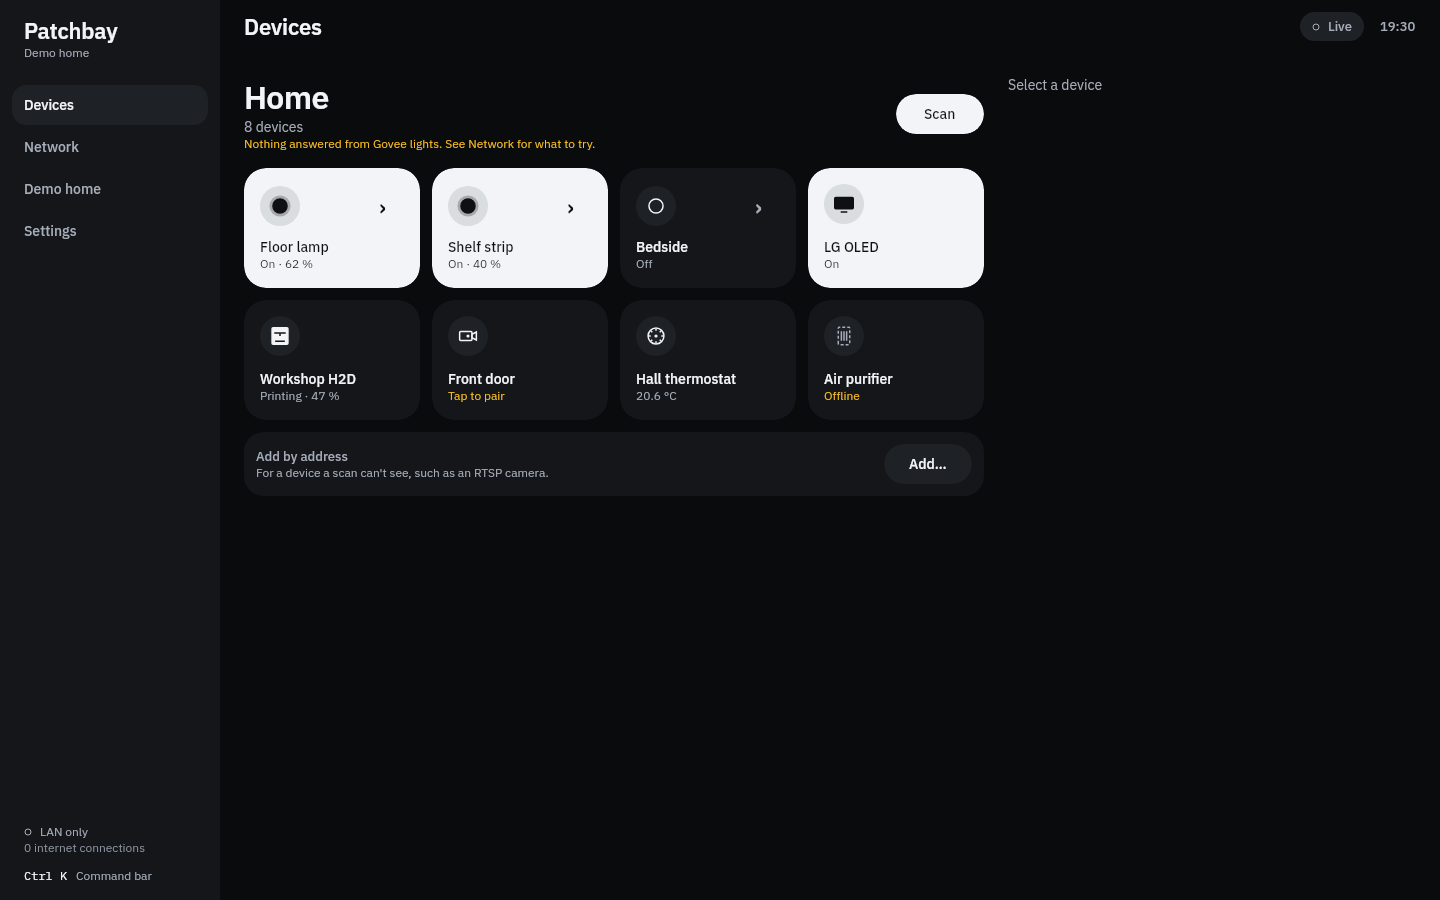
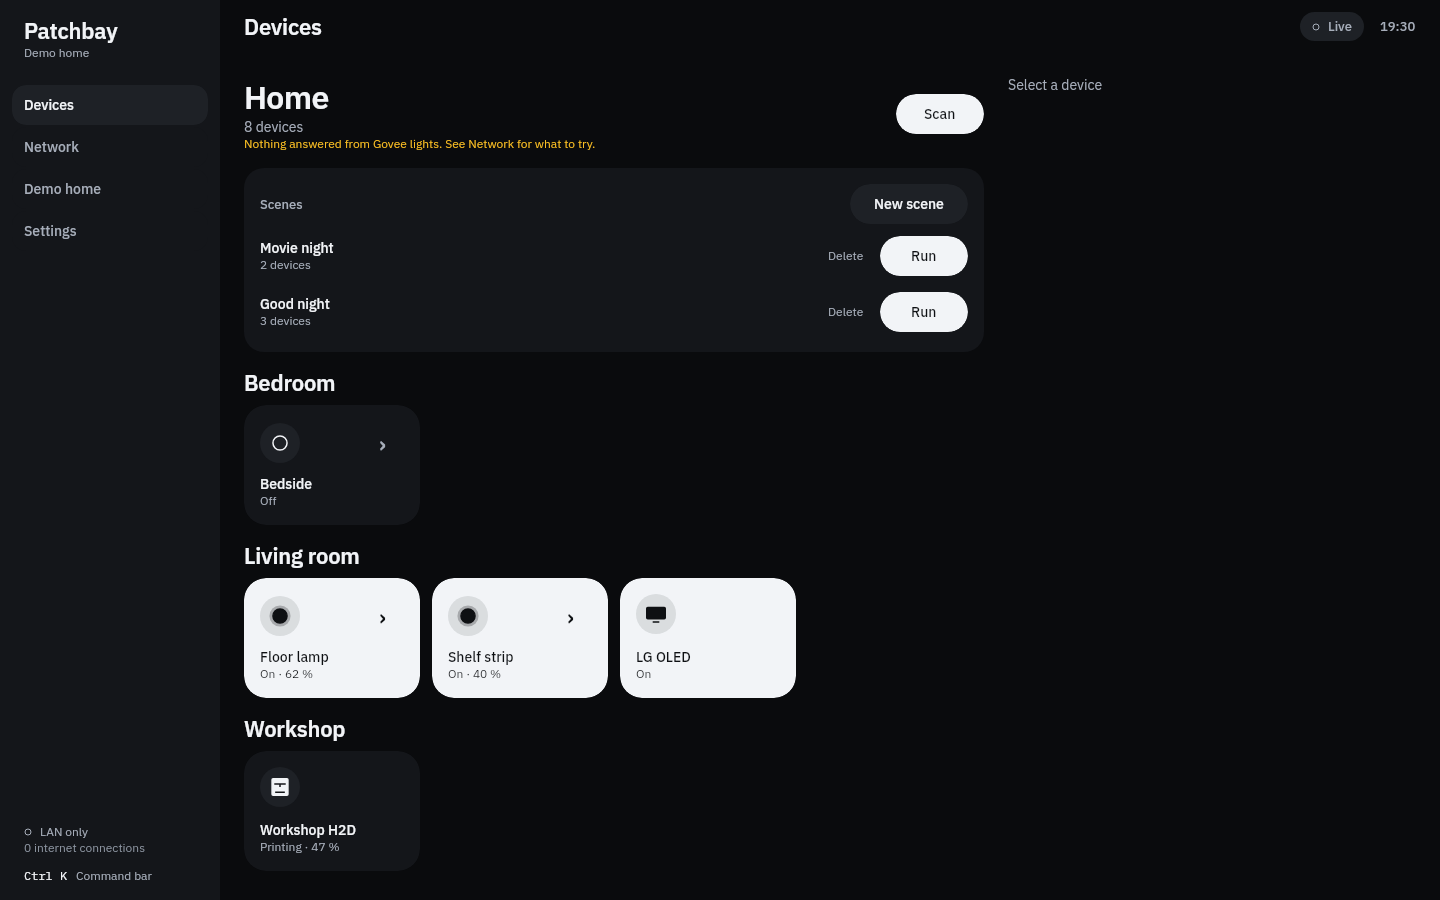
docs(design): re-record goldens with rooms and scenes; hardware checks for S1.x
Claude-Session: https://claude.ai/code/session_01VKgrBEm7ZaxNZiCGqfgE4v

diff --git a/docs/HARDWARE_TEST.md b/docs/HARDWARE_TEST.md
@@ -168,3 +168,18 @@ If Watch shows a black picture or an error, tell me the camera model: a camera t
 
 Please report: camera and HomeBase models, whether the stream path was `live0`, and any error text.
 If the path differs, tell me the path VLC needed.
+
+## Phase 1 — Rooms and scenes
+
+| # | Step | Expected |
+|---|---|---|
+| S1.1 | Open a light or plug (tap › on its tile) → **Room** → type "Living room" → Add room | The device moves under a "Living room" heading on the Devices tab. Other devices stay under "Other devices" |
+| S1.2 | Put a second device in the same room, a third in a new room | Tiles group under each room heading, sorted by name |
+| S1.3 | Restart Patchbay | Rooms and assignments are still there |
+| S1.4 | Set two lights how you like them (on, a brightness, a colour or white). Scenes → **New scene** → name it → tick them → Save | The scene appears with its device count |
+| S1.5 | Change those lights, then tap **Run** | Both go back to the saved state within about a second |
+| S1.6 | Switch one light off at its switch or app, run the scene | The scene still runs; tell me if it reports a problem |
+| S1.7 | Restart, then run the scene | It's still there and still works |
+| S1.8 | Delete the scene | It's gone for good |
+
+Scenes only ever hold lights and plugs. A TV, printer, camera or lock can't be put in one.

diff --git a/docs/design/screens/README.md b/docs/design/screens/README.md
@@ -2,7 +2,7 @@
 
 These PNGs are rendered by `ui/src/desktopTest/.../ScreenshotTest.kt` from the deterministic demo home.
 
-**Recorded 2026-11-06** from the CI render of commit `9ccd9a6` (32 PNGs: light, dark and night, phone and desktop, including the live tile screens the Network screen and Settings), after the visual redesign (ADR 0009). The
+**Recorded 2026-11-06** from the CI render of commit `fbe3a10` (32 PNGs: light, dark and night, phone and desktop, including the live tile screens the Network screen and Settings), after the visual redesign (ADR 0009). The
 `:ui:desktopTest` run in CI compares every render with these and fails on drift (ADR 0006).
 
 When you change the UI on purpose, re-record and review the images before committing them. In CI, run the
